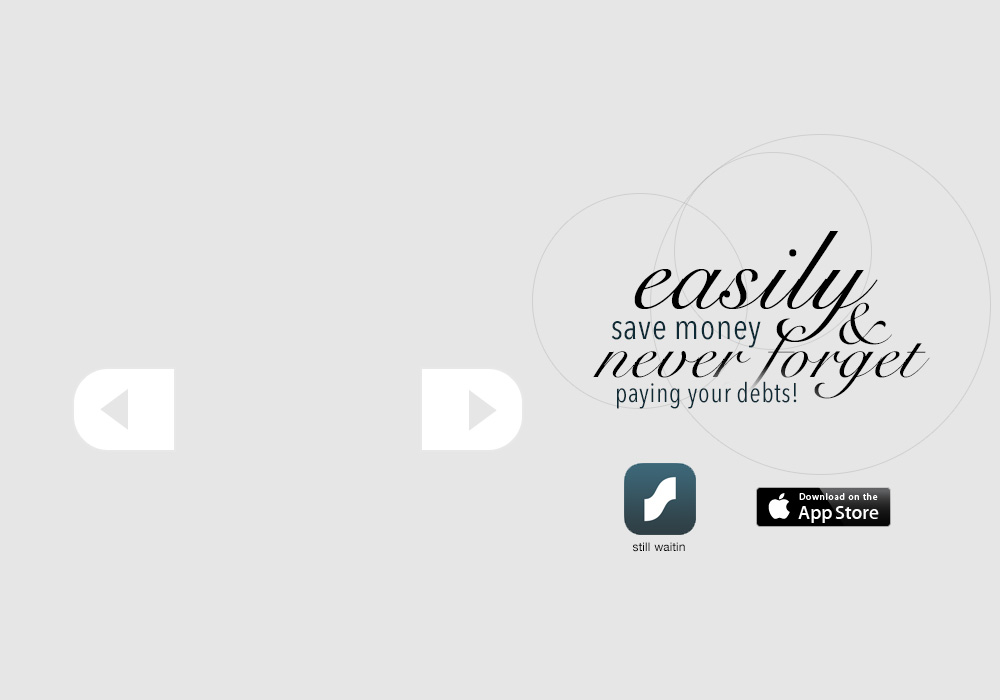
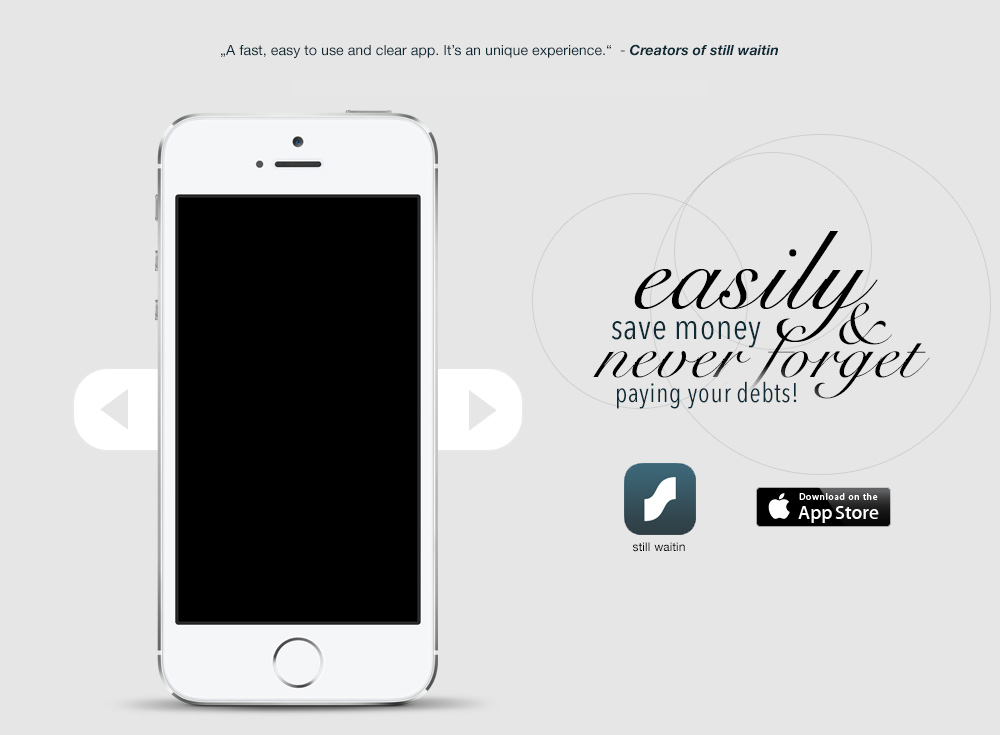
don't overlay transparent phone, breaks clickareas

diff --git a/index.html b/index.html
@@ -68,11 +68,9 @@
                     <a href="http://taps.io/ODQ3NjY/?__ts=appstoreicon" onfocus="if(this.blur)this.blur()"><div class="appbtn">&nbsp;</div></a>
                 </div>
             </div>
-
-            <img id="iphone" src="images/phone_transparent.png" />
         	 
         	<a href="#" onclick="nextImage();" onfocus="if(this.blur)this.blur()">
-            	<img name="screenshots" id="screenshot" src="screenshots/4.jpg" width="242" height="430" alt="screenshots" />
+            	<img name="screenshots" id="screenshot" src="screenshots/4.jpg" width="240" height="426" alt="screenshots" />
             </a>
         </div>
 		

diff --git a/style.css b/style.css
@@ -42,7 +42,7 @@ body {
 
 #main {
 	background: url(images/content_bg.jpg)  center top no-repeat;
-	height: 700px;
+	height: 750px;
 	min-width: 1000px;
 }
 
@@ -53,21 +53,19 @@ a img {
 
 #content {
 	width: 900px;
-	height: 520px;
+	height: 428px;
 	margin: 0px auto;
-	padding-top: 168px;
+	padding-top: 196px;
 	text-align: center;
 	position: relative;
 }
 
-#iphone {
-	position: absolute;
-	top: 82px;
-	left: 53px;
-}
-
 #arealeft, #arearight {
 	height: 428px;
+}
+
+#arealeft a, #arearight a {
+	width: 126px;
 }
 
 #arealeft {
